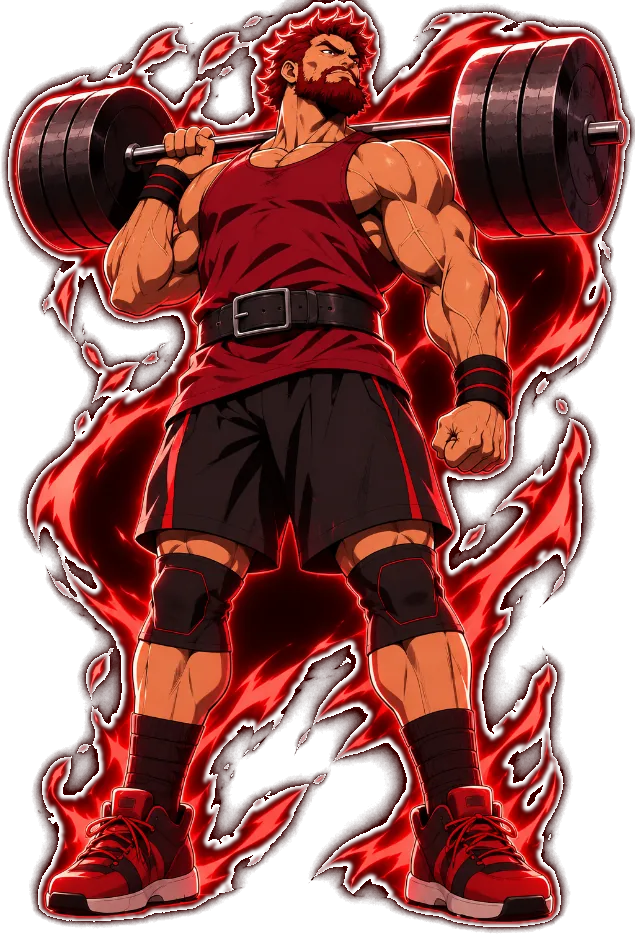
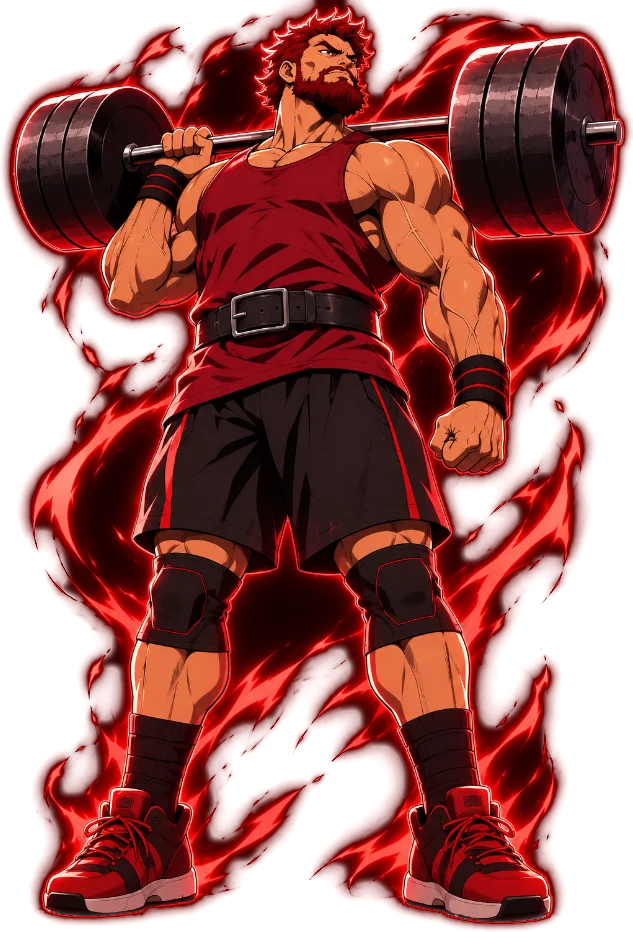
Heróis sem fundo (só a aura) e carrossel de celulares retos com encaixe
Claude-Session: https://claude.ai/code/session_01LVe9Kqr91i9gE3MjA7A5uT

diff --git a/index.html b/index.html
@@ -107,7 +107,7 @@ section{position:relative}
 .d-list{display:flex;flex-wrap:wrap;gap:8px;margin-bottom:24px;max-width:470px}
 .d-list span{font-size:14px;font-weight:700;padding:4px 10px;border:1px solid rgba(255,255,255,.3);background:rgba(0,0,0,.25)}
 .d-art{position:relative;height:680px;display:flex;justify-content:center;align-items:flex-end}
-.d-art img{height:100%;width:auto;max-width:none;object-fit:contain;filter:drop-shadow(0 0 30px var(--acc));-webkit-mask-image:linear-gradient(90deg,transparent,#000 6%,#000 94%,transparent),linear-gradient(180deg,#000 82%,transparent);-webkit-mask-composite:source-in;mask-image:linear-gradient(90deg,transparent,#000 6%,#000 94%,transparent),linear-gradient(180deg,#000 82%,transparent);mask-composite:intersect;transition:opacity .4s,transform .5s}
+.d-art img{height:100%;width:auto;max-width:none;object-fit:contain;transition:opacity .4s,transform .5s}
 .d-art img.out{opacity:0;transform:translateX(30px)}
 .d-thumbs{position:absolute;left:50%;bottom:40px;transform:translateX(-50%);display:flex;gap:26px;z-index:3}
 .thumb{width:84px;height:84px;transform:rotate(45deg);border:2px solid rgba(255,255,255,.5);overflow:hidden;background:#05070d;cursor:pointer;transition:.25s;padding:0}
@@ -208,7 +208,7 @@ footer .wrap{display:flex;flex-wrap:wrap;gap:16px;justify-content:space-between;
   .sec{padding:80px 0}
 }
 
-.hero-m,.mock-swipe,.swipe-hint{display:none}
+.hero-m,.mock-swipe,.swipe-hint,.dots{display:none}
 @media (max-width:700px){
   body{font-size:17px}
   .wrap{padding:0 20px}
@@ -218,8 +218,9 @@ footer .wrap{display:flex;flex-wrap:wrap;gap:16px;justify-content:space-between;
   .btn{font-size:16px;min-height:52px;padding:0 18px;letter-spacing:.04em}
   .btn.big{font-size:17px;min-height:56px;width:100%;padding:0 16px}
   .hero{min-height:auto;display:block;padding-top:64px}
-  .hero .art{filter:blur(8px) brightness(.4);animation:none;transform:scale(1.1)}
-  .hero:after{background:linear-gradient(180deg,rgba(5,7,13,.2) 0%,rgba(5,7,13,0) 35%,rgba(5,7,13,.9) 62%,#05070d 100%)}
+  .hero .art{display:none}
+  .hero{background:radial-gradient(120% 60% at 50% 28%,#12285a 0%,#08102a 45%,#05070d 75%)}
+  .hero:after{background:linear-gradient(180deg,rgba(5,7,13,0) 60%,#05070d 100%)}
   .hero-m{display:block;position:relative;z-index:1;width:116%;max-width:none;height:auto;margin:0 -8%}
   .hero .wrap{padding-top:0;padding-bottom:56px;margin-top:-70px}
   .hero h1{font-size:42px;letter-spacing:.04em;margin:12px 0 8px}
@@ -244,9 +245,16 @@ footer .wrap{display:flex;flex-wrap:wrap;gap:16px;justify-content:space-between;
   .mock-trio{display:none}
   img.duo{display:none}
   .split{gap:30px}
-  .mock-swipe{display:flex;gap:6px;overflow-x:auto;scroll-snap-type:x mandatory;margin:26px -20px 0;padding:0 11%;scrollbar-width:none}
+  .mock-swipe{display:flex;gap:0;overflow-x:auto;scroll-snap-type:x mandatory;margin:26px -20px 0;padding:10px 18vw 6px;scrollbar-width:none;-webkit-overflow-scrolling:touch}
   .mock-swipe::-webkit-scrollbar{display:none}
-  .mock-swipe img{flex:0 0 78%;width:78%;height:auto;scroll-snap-align:center;filter:drop-shadow(0 24px 40px rgba(0,0,0,.6))}
+  .mock-swipe figure{flex:0 0 64vw;margin:0;scroll-snap-align:center;scroll-snap-stop:always;transition:transform .25s,opacity .25s;transform:scale(.84);opacity:.45}
+  .mock-swipe figure.on{transform:scale(1);opacity:1}
+  .mock-swipe img{width:100%;height:auto;filter:drop-shadow(0 24px 40px rgba(0,0,0,.6))}
+  .mock-swipe figcaption{text-align:center;font-weight:700;letter-spacing:.14em;font-size:13px;color:var(--cy2);margin-top:10px;opacity:0;transition:opacity .25s}
+  .mock-swipe figure.on figcaption{opacity:1}
+  .dots{display:flex!important;justify-content:center;gap:8px;margin-top:14px}
+  .dots i{width:8px;height:8px;border:1px solid var(--cy2);transform:rotate(45deg);transition:.2s}
+  .dots i.on{background:var(--cy2);box-shadow:0 0 8px var(--cy)}
   .swipe-hint{display:block;color:var(--cy2);font-size:13px;letter-spacing:.14em;text-transform:uppercase;margin-top:4px}
   .feat3{margin-top:26px;gap:16px}
   .card{padding:24px}
@@ -401,11 +409,14 @@ footer .wrap{display:flex;flex-wrap:wrap;gap:16px;justify-content:space-between;
       <div><b class="glow">JANELA DE STATUS</b><span>Nível, patente, atributos e o seu herói evoluindo a cada série.</span></div>
       <div><b class="glow">BATALHAS DE CHEFE</b><span>Recordes pessoais viram monstros com barra de HP.</span></div>
     </div>
-    <div class="mock-swipe" aria-label="Telas do app (deslize para o lado)">
-      <img src="img/mock-status.webp" alt="Celular com a tela de Status do herói" width="520" height="1157" loading="lazy">
-      <img src="img/mock-missoes.webp" alt="Celular com a tela de Missão Diária" width="520" height="1157" loading="lazy">
-      <img src="img/mock-dungeon.webp" alt="Celular com a tela da Dungeon de 30 dias" width="520" height="1157" loading="lazy">
+    <div class="mock-swipe" id="swipe" aria-label="Telas do app (deslize para o lado)">
+      <figure><img src="img/flat-status.webp" alt="Tela de Status do herói" width="560" height="1180" loading="lazy"><figcaption>JANELA DE STATUS</figcaption></figure>
+      <figure><img src="img/flat-missoes.webp" alt="Tela de Missão Diária" width="560" height="1180" loading="lazy"><figcaption>MISSÕES DIÁRIAS</figcaption></figure>
+      <figure><img src="img/flat-dungeon.webp" alt="Tela da Dungeon de 30 dias" width="560" height="1180" loading="lazy"><figcaption>DUNGEON DE 30 DIAS</figcaption></figure>
+      <figure><img src="img/flat-chefes.webp" alt="Tela de Batalhas de Chefe" width="560" height="1180" loading="lazy"><figcaption>BATALHAS DE CHEFE</figcaption></figure>
+      <figure><img src="img/flat-treinar.webp" alt="Tela de escolha de exercícios" width="560" height="1180" loading="lazy"><figcaption>45 EXERCÍCIOS</figcaption></figure>
     </div>
+    <div class="dots" id="dots" aria-hidden="true"><i class="on"></i><i></i><i></i><i></i><i></i></div>
     <p class="swipe-hint">deslize para ver mais telas →</p>
     <p style="color:var(--dim);font-size:14px;margin-top:20px">Telas reais do app. Nome e números de exemplo.</p>
   </div>
@@ -588,6 +599,12 @@ function setCls(k,first){
 }
 document.querySelectorAll('.thumb').forEach(t=>t.onclick=()=>setCls(t.dataset.c));
 setCls('monge',true);
+
+/* carrossel de telas */
+const sw=document.getElementById('swipe');
+if(sw){const figs=[...sw.children],dots=[...document.querySelectorAll('#dots i')];
+  const upd=()=>{const c=sw.scrollLeft+sw.clientWidth/2;let best=0,bd=1e9;figs.forEach((f,i)=>{const d=Math.abs(f.offsetLeft+f.offsetWidth/2-c);if(d<bd){bd=d;best=i}});figs.forEach((f,i)=>f.classList.toggle('on',i===best));dots.forEach((d,i)=>d.classList.toggle('on',i===best))};
+  sw.addEventListener('scroll',()=>requestAnimationFrame(upd),{passive:true});addEventListener('resize',upd);upd();}
 
 /* reveal */
 const io=new IntersectionObserver(es=>es.forEach(e=>{if(e.isIntersecting){e.target.classList.add('in');io.unobserve(e.target)}}),{threshold:.12});
